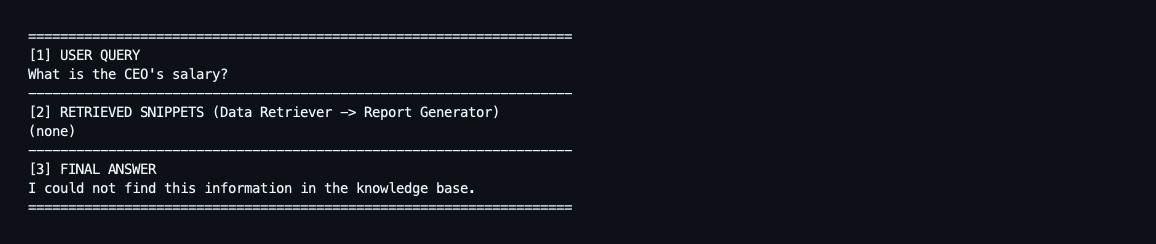
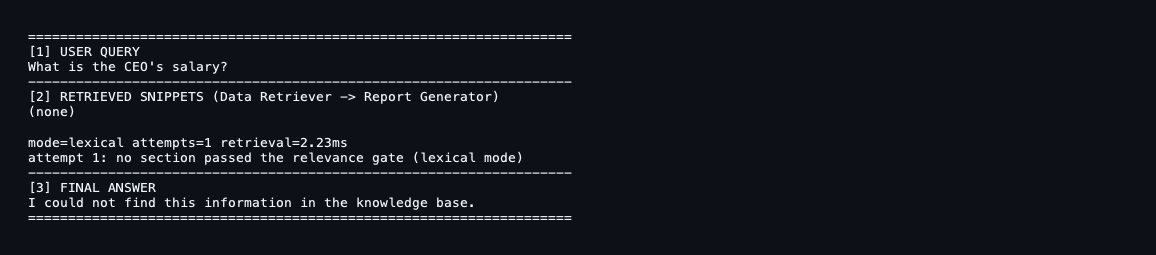
docs: refresh E2E screenshots

Changed region(s): [[0.0, 0.5164, 0.4983, 0.8893], [0.0, 0.1148, 0.4983, 0.4016], [0.0, 0.4303, 0.436, 0.4877]]

diff --git a/README.md b/README.md
@@ -285,7 +285,7 @@ summarize, enrich, rerank, or rewrite the evidence.
 │   ├── 01_international_travel.png       # CLI runs
 │   ├── 02_remote_work.png
 │   ├── 03_not_found.png
-│   └── ui_01_empty.png … ui_07_dark.png  # web UI states
+│   └── ui_01_empty.png … ui_08_compact_bar.png  # web UI states
 ├── docs/
 │   └── DESIGN_NOTES.md           # engineering rationale and trade-offs
 ├── evaluation_results.md         # generated multi-mode retrieval metrics
@@ -729,11 +729,24 @@ inherit its strictness and must not be treated as deterministic CI gates.
 
 ## Example results
 
+> **Live E2E verification — 26 July 2026.**
+> `RUN_LIVE_LLM_TESTS=1 .venv/bin/python -m unittest -v tests.test_live_e2e`
+> completed all 5 provider-boundary tests in 88.408 seconds. The run covered a
+> known multi-section query, the multi-intent union guarantee, streamed CLI/state
+> parity, a Thai answer with a byte-verifiable English citation, and the exact
+> deterministic not-found response.
+
 ### Command-line interface
 
-The screenshots below were captured from successful live CLI runs with
-`gpt-5-mini`. Each image shows the user query, the raw evidence handoff, and the
-final grounded answer.
+The screenshots below were regenerated on **26 July 2026** from successful live
+CLI runs with `gpt-5-mini`. They are direct renderings of the CLI's stdout—not
+mock fixtures—and each image shows the user query, the raw evidence handoff,
+retrieval telemetry, and the final grounded answer.
+
+Together, the three runs demonstrate the assignment-critical paths: grounded
+multi-section synthesis, complementary related-section synthesis, and a
+knowledge-base gap that returns the exact deterministic fallback instead of
+hallucinating.
 
 #### International travel — multi-section synthesis
 
@@ -758,10 +771,23 @@ system returns the fixed fallback instead of inventing an answer.
 
 ### Web interface
 
-These screenshots come from the bundled UI running on **mock fixtures**, not a
-live provider call. The retrieved sections are byte-identical to
-`knowledge_base.txt`, and the mock gate returns the same sections as the Python
-tool for the queries in the table above.
+These screenshots were refreshed after the live E2E verification above. They
+come from the bundled UI running on **mock fixtures**, not a live provider call.
+The retrieved sections are byte-identical to `knowledge_base.txt`, and the mock
+gate returns the same sections as the Python tool for the queries in the table
+above.
+
+For an AI Engineer Programming Test reviewer, the image sequence is organised
+around inspectability: graph topology before execution, per-stage progress,
+forced tool use, raw evidence handoff, grounded citations, deterministic
+not-found behaviour, explicit backend failures, and responsive operation.
+
+#### Evaluator orientation — graph visible before execution
+
+The first-visit state names both agents and exposes the fixed LangGraph topology
+before a query is submitted.
+
+![Web UI empty state with the two-agent topology visible](screenshots/ui_01_empty.png)
 
 #### International travel — evidence handoff made visible
 
@@ -786,16 +812,24 @@ Retriever → Evidence → Generator → Answer stays visible in flight.
 
 ![Web UI running with per-stage status badges and skeletons](screenshots/ui_02_running.png)
 
+#### Compact audit status
+
+Once the query card scrolls out of view, the sticky bar preserves the run
+outcome, query, and grounding count while evidence and the final answer remain
+under review.
+
+![Web UI compact status bar while reviewing a grounded answer](screenshots/ui_08_compact_bar.png)
+
 #### Backend failure
 
 A failure is not converted into a not-found. The error is surfaced with the
 unfinished stages marked *Failed*, matching the CLI's failure semantics.
 
-![Web UI error state after an unreachable backend](screenshots/ui_05_error.png)
+![Web UI error state after a backend protocol failure](screenshots/ui_05_error.png)
 
 #### Responsive and dark theme
 
-The same five stages on a 390 px viewport and in the dark colour scheme.
+The same five stages on an exact 390 px viewport and in the dark colour scheme.
 
 | Mobile | Dark |
 |---|---|
